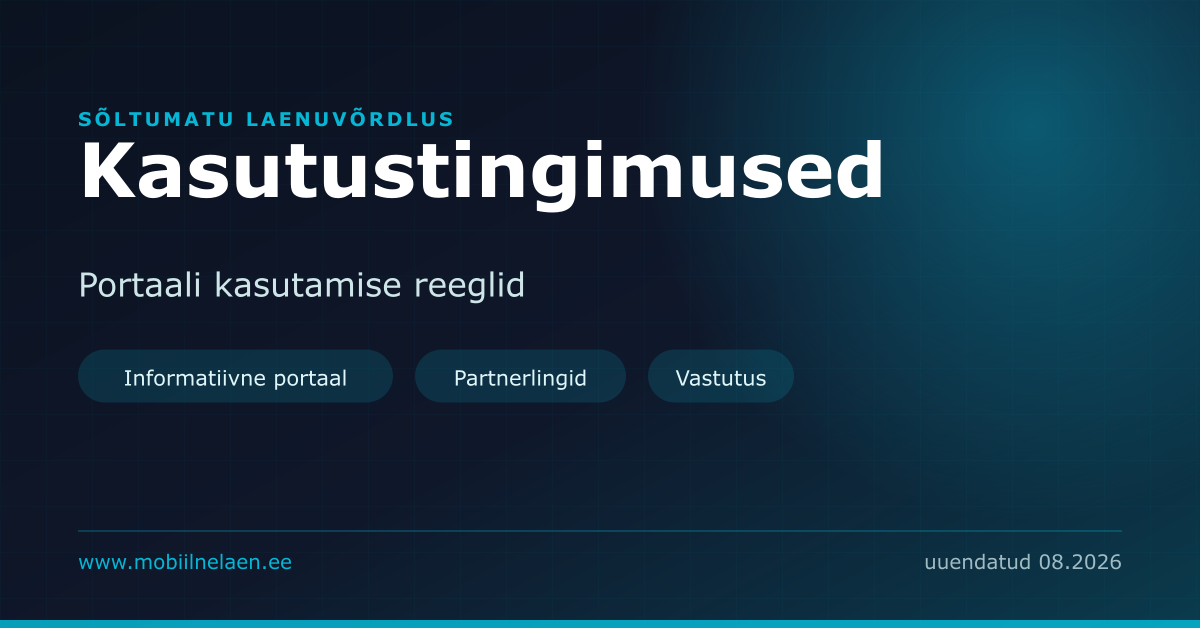
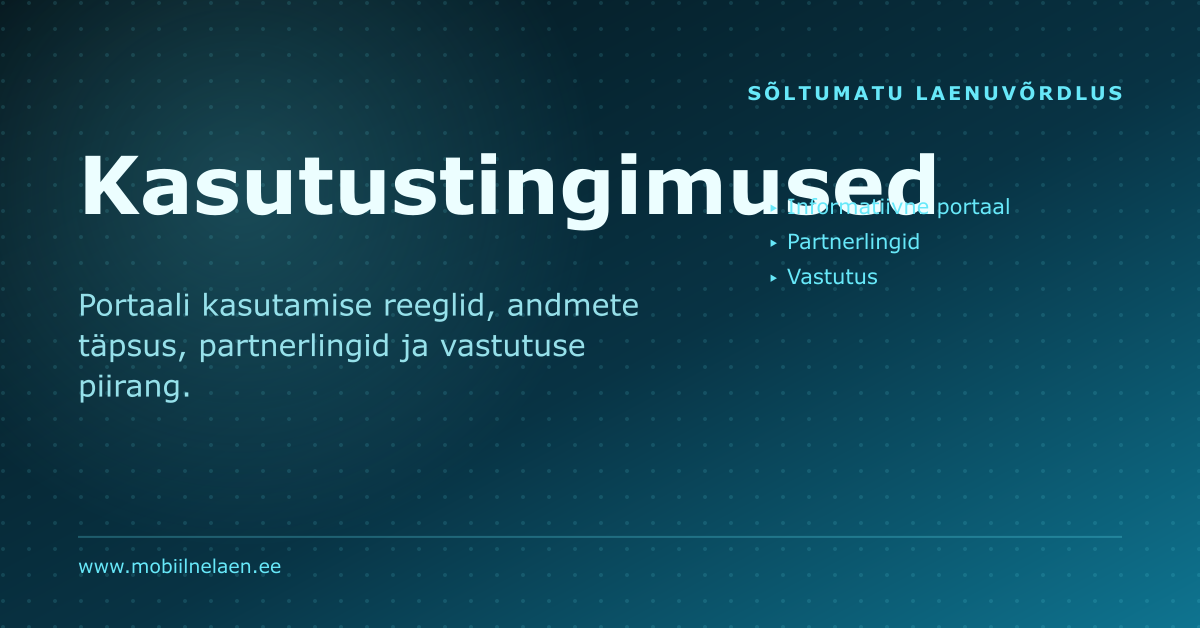
OG как канал картиночного поиска: ключ в имени файла, видимый <img>, image-sitemap
Основание — факт, а не теория: sesok.ee/laen/kiirlaen не содержит ни одного
тега <img>, картинка есть только в og:image — и выдаётся в поиске по
картинкам. Значит og:image индексируется как самостоятельный ресурс, а имя
файла работает как ключ.

- Карточка главной: /og/index.png → /og/mobiilne-laen.png (ключа в прежнем
  имени не было вообще). Остальные слаги уже ключевые и не тронуты.
- Прежнее имя оставлено побайтовой копией: ресурс мог попасть в индекс,
  404 на нём хуже дубля по содержимому.
- Новый scripts/og-slug.mjs — единственное место со списком страниц и правилом
  именования, его импортируют и генератор, и MainLayout (раньше список был
  скопирован в шаблон вручную и мог разъехаться).
- Карточка продублирована видимым <img> с осмысленным alt в конце <main>.
  ⛔ Не скрытая CSS-ом: <img> — основной канал обнаружения Google Images.
- Image-sitemap /sitemap-images.xml, объявлен в robots.txt. Генерируется ИЗ
  npm run build, потому что сборка идёт на Vercel — локальный-только скрипт
  на проде не отработал бы.
- robots.txt: карты переведены на www (non-www 307-редиректится).

⚠ В README зафиксировано расхождение: в реестре композиций за этим сайтом
записан ribbon, фактически сид от www.mobiilnelaen.ee даёт sideStack — тот же,
что у vertaislaina24.fi. Композицию намеренно не менял, решение за владельцем.

Замер seo-matrix: 8 трафиковых страниц, 0 ниже норматива — как и до правок.

diff --git a/README.md b/README.md
@@ -41,3 +41,40 @@ All commands are run from the root of the project, from a terminal:
 ## 👀 Want to learn more?
 
 Feel free to check [our documentation](https://docs.astro.build) or jump into our [Discord server](https://astro.build/chat).
+
+## 🖼 OG как канал картиночного поиска (03.08.2026)
+
+**Основание — факт, а не теория.** Страница конкурента `sesok.ee/laen/kiirlaen`
+не содержит НИ ОДНОГО тега `<img>` — картинка есть только в `og:image` — и всё
+равно выдаётся в поиске по картинкам Google. Значит `og:image` индексируется как
+самостоятельный ресурс, а **имя файла карточки работает как ключ**.
+
+- **Имя карточки главной = ВЧ-ключ:** `/` → `/og/mobiilne-laen.png` (был
+  `index.png` — ключа в имени нет вообще). Слаги остальных страниц уже ключевые
+  (`kiirlaen`, `vaikelaen`, `autolaen`…) и не тронуты.
+- **Прежнее имя оставлено побайтовой копией** `index.png`: ресурс мог попасть в
+  индекс, 404 на нём хуже дубля по содержимому.
+- **Новый модуль `scripts/og-slug.mjs`** — единственное место со списком страниц
+  и правилом именования; его импортируют и генератор, и `MainLayout`. Раньше
+  список был скопирован в шаблон вручную.
+- **Карточка продублирована видимым `<img>`** с осмысленным alt в конце `<main>`.
+  ⛔ Прятать CSS-ом нельзя. `<img>` — основной канал обнаружения для Google
+  Images, и alt там влияет, в отличие от `og:image:alt`.
+- **Image-sitemap** `scripts/generate-image-sitemap.mjs` → `/sitemap-images.xml`,
+  объявлен отдельной строкой `Sitemap:` в robots.txt. Вызывается **из
+  `npm run build`**, потому что сборка идёт на Vercel: скрипт, запускаемый
+  только локально, на проде не отработал бы и карта протухла.
+- В robots.txt адреса карт переведены на **www** (non-www 307-редиректится,
+  карта не должна вести на редирект).
+
+### ⚠ Расхождение с реестром композиций — требует решения владельца
+В памяти (`reference_og_image_formula`) за mobiilnelaen.ee записана композиция
+**ribbon + triangles**, и именно из-за неё vertaislaina24.fi был вручную
+переведён на `sideStack`. Фактически же генератор здесь считает сид от
+**`www.mobiilnelaen.ee`** (строка `DOMAIN`), и сид даёт **sideStack + dots,
+1200×628** — это подтверждается живыми карточками. То есть сейчас **sideStack
+занят двумя сайтами сети** (vertaislaina24.fi и mobiilnelaen.ee).
+Композиция намеренно НЕ менялась (это было бы вне рамок задачи), но развязать
+коллизию стоит: либо `COMP_OVERRIDE = 'ribbon'` здесь (тогда размер станет
+1200×630 и в `MainLayout` нужно поправить `og:image:height`), либо смена
+композиции у vertaislaina24.fi.
